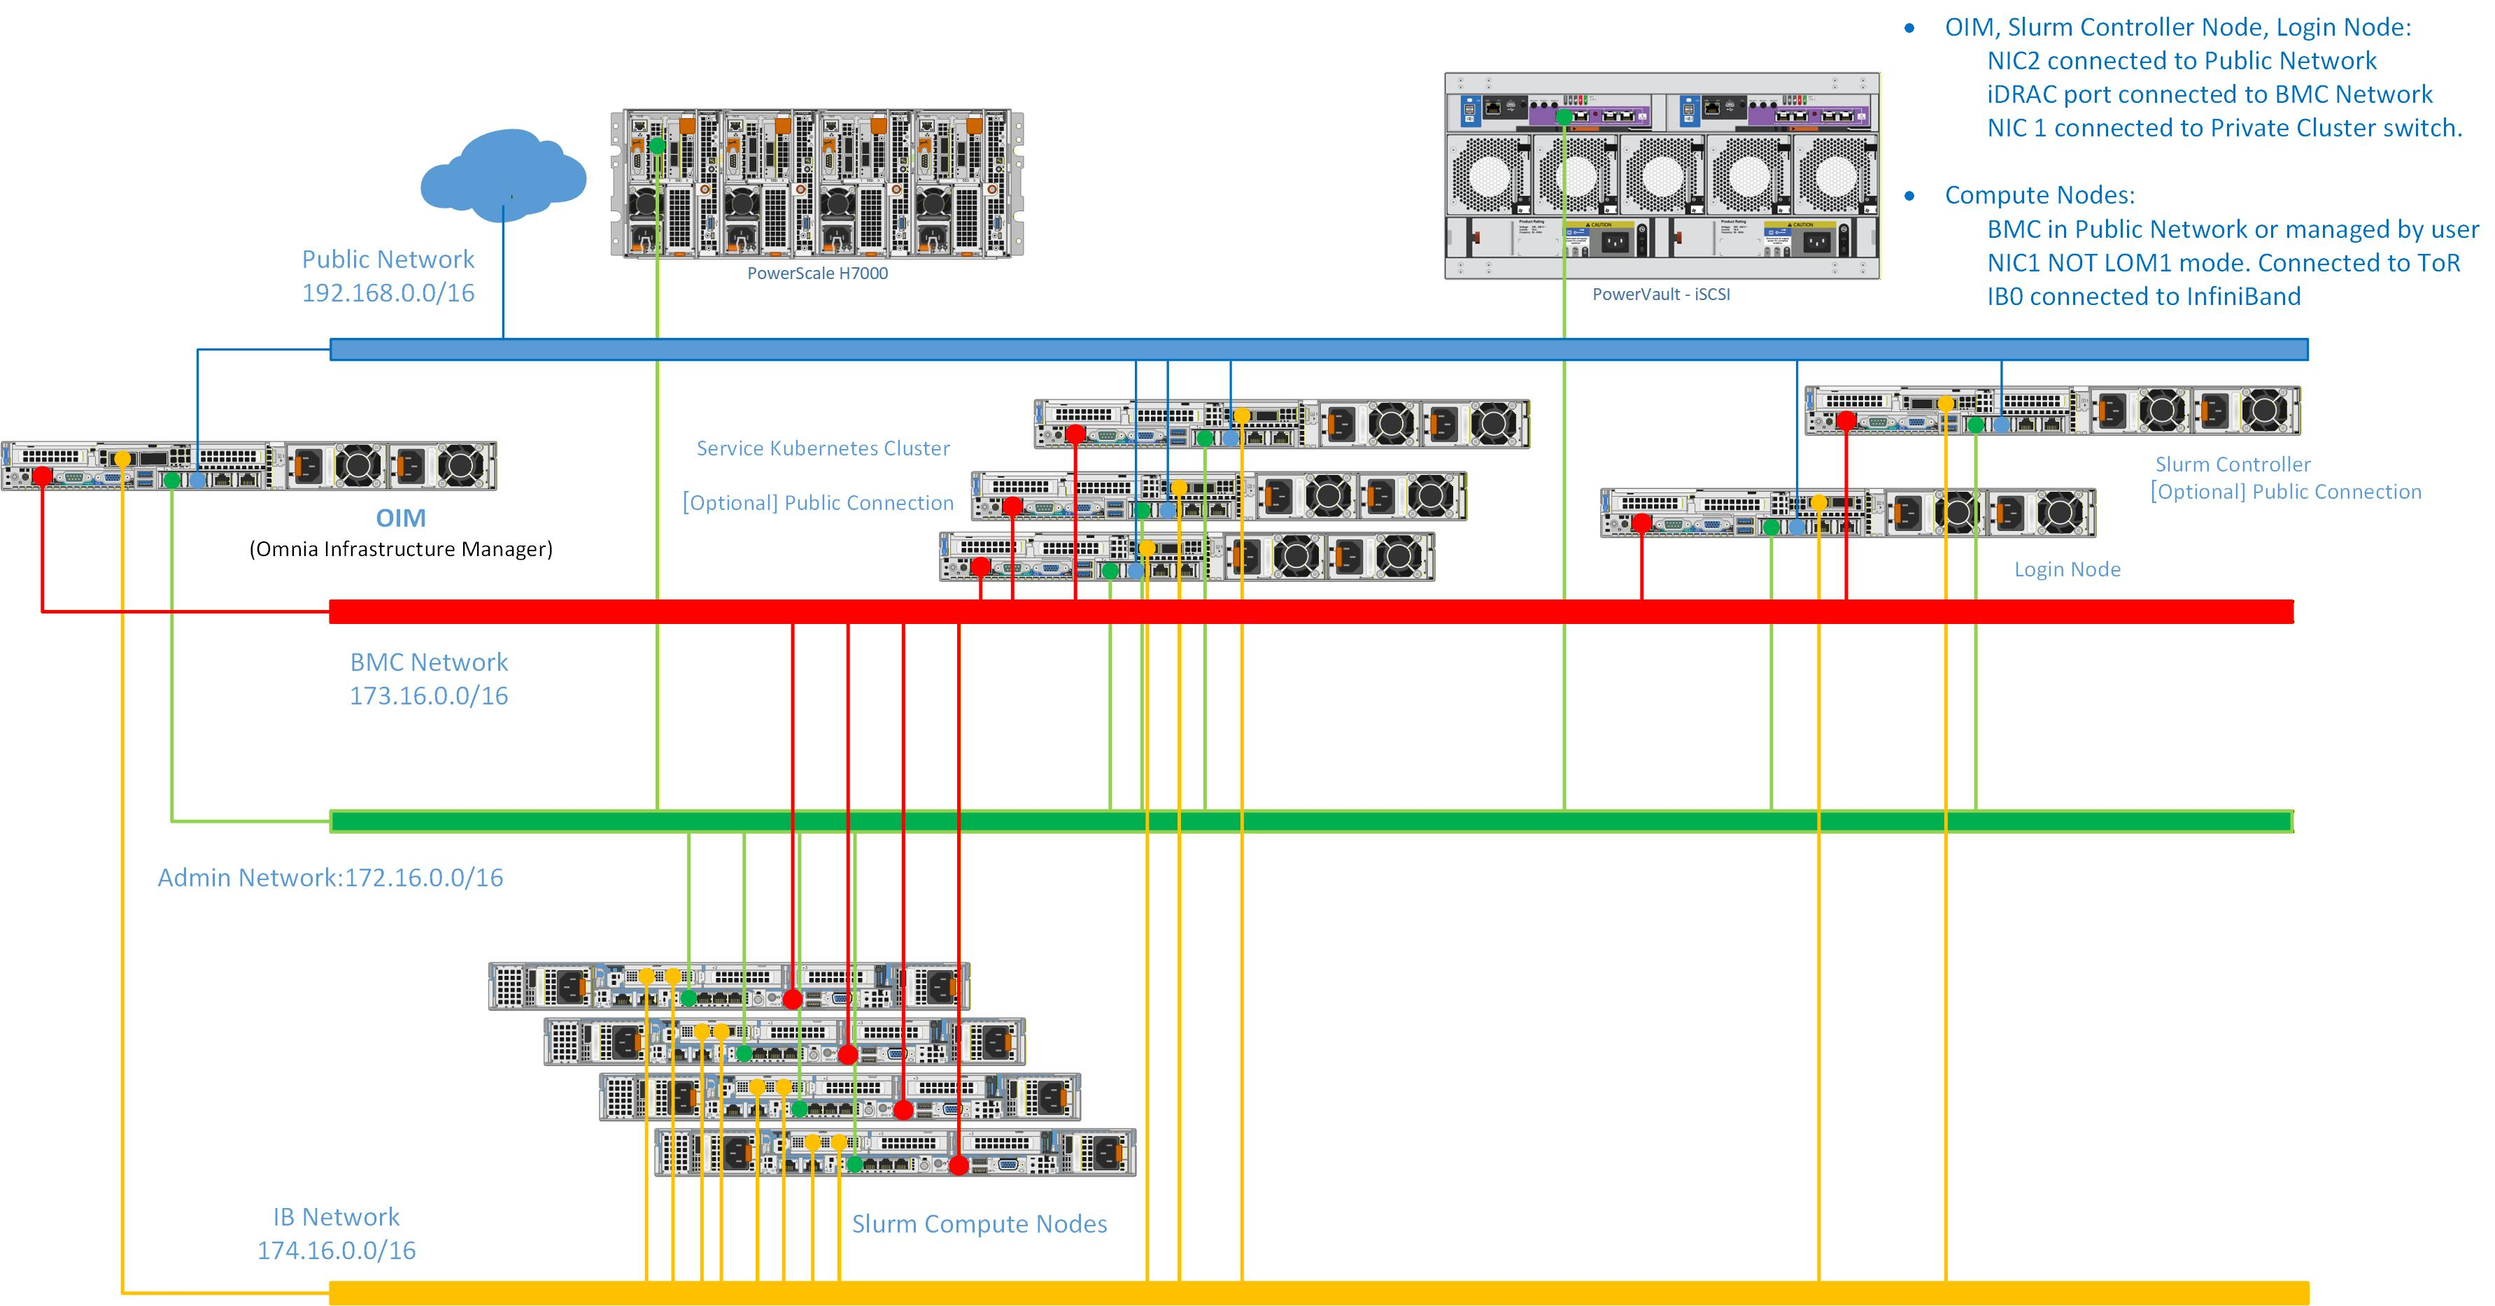
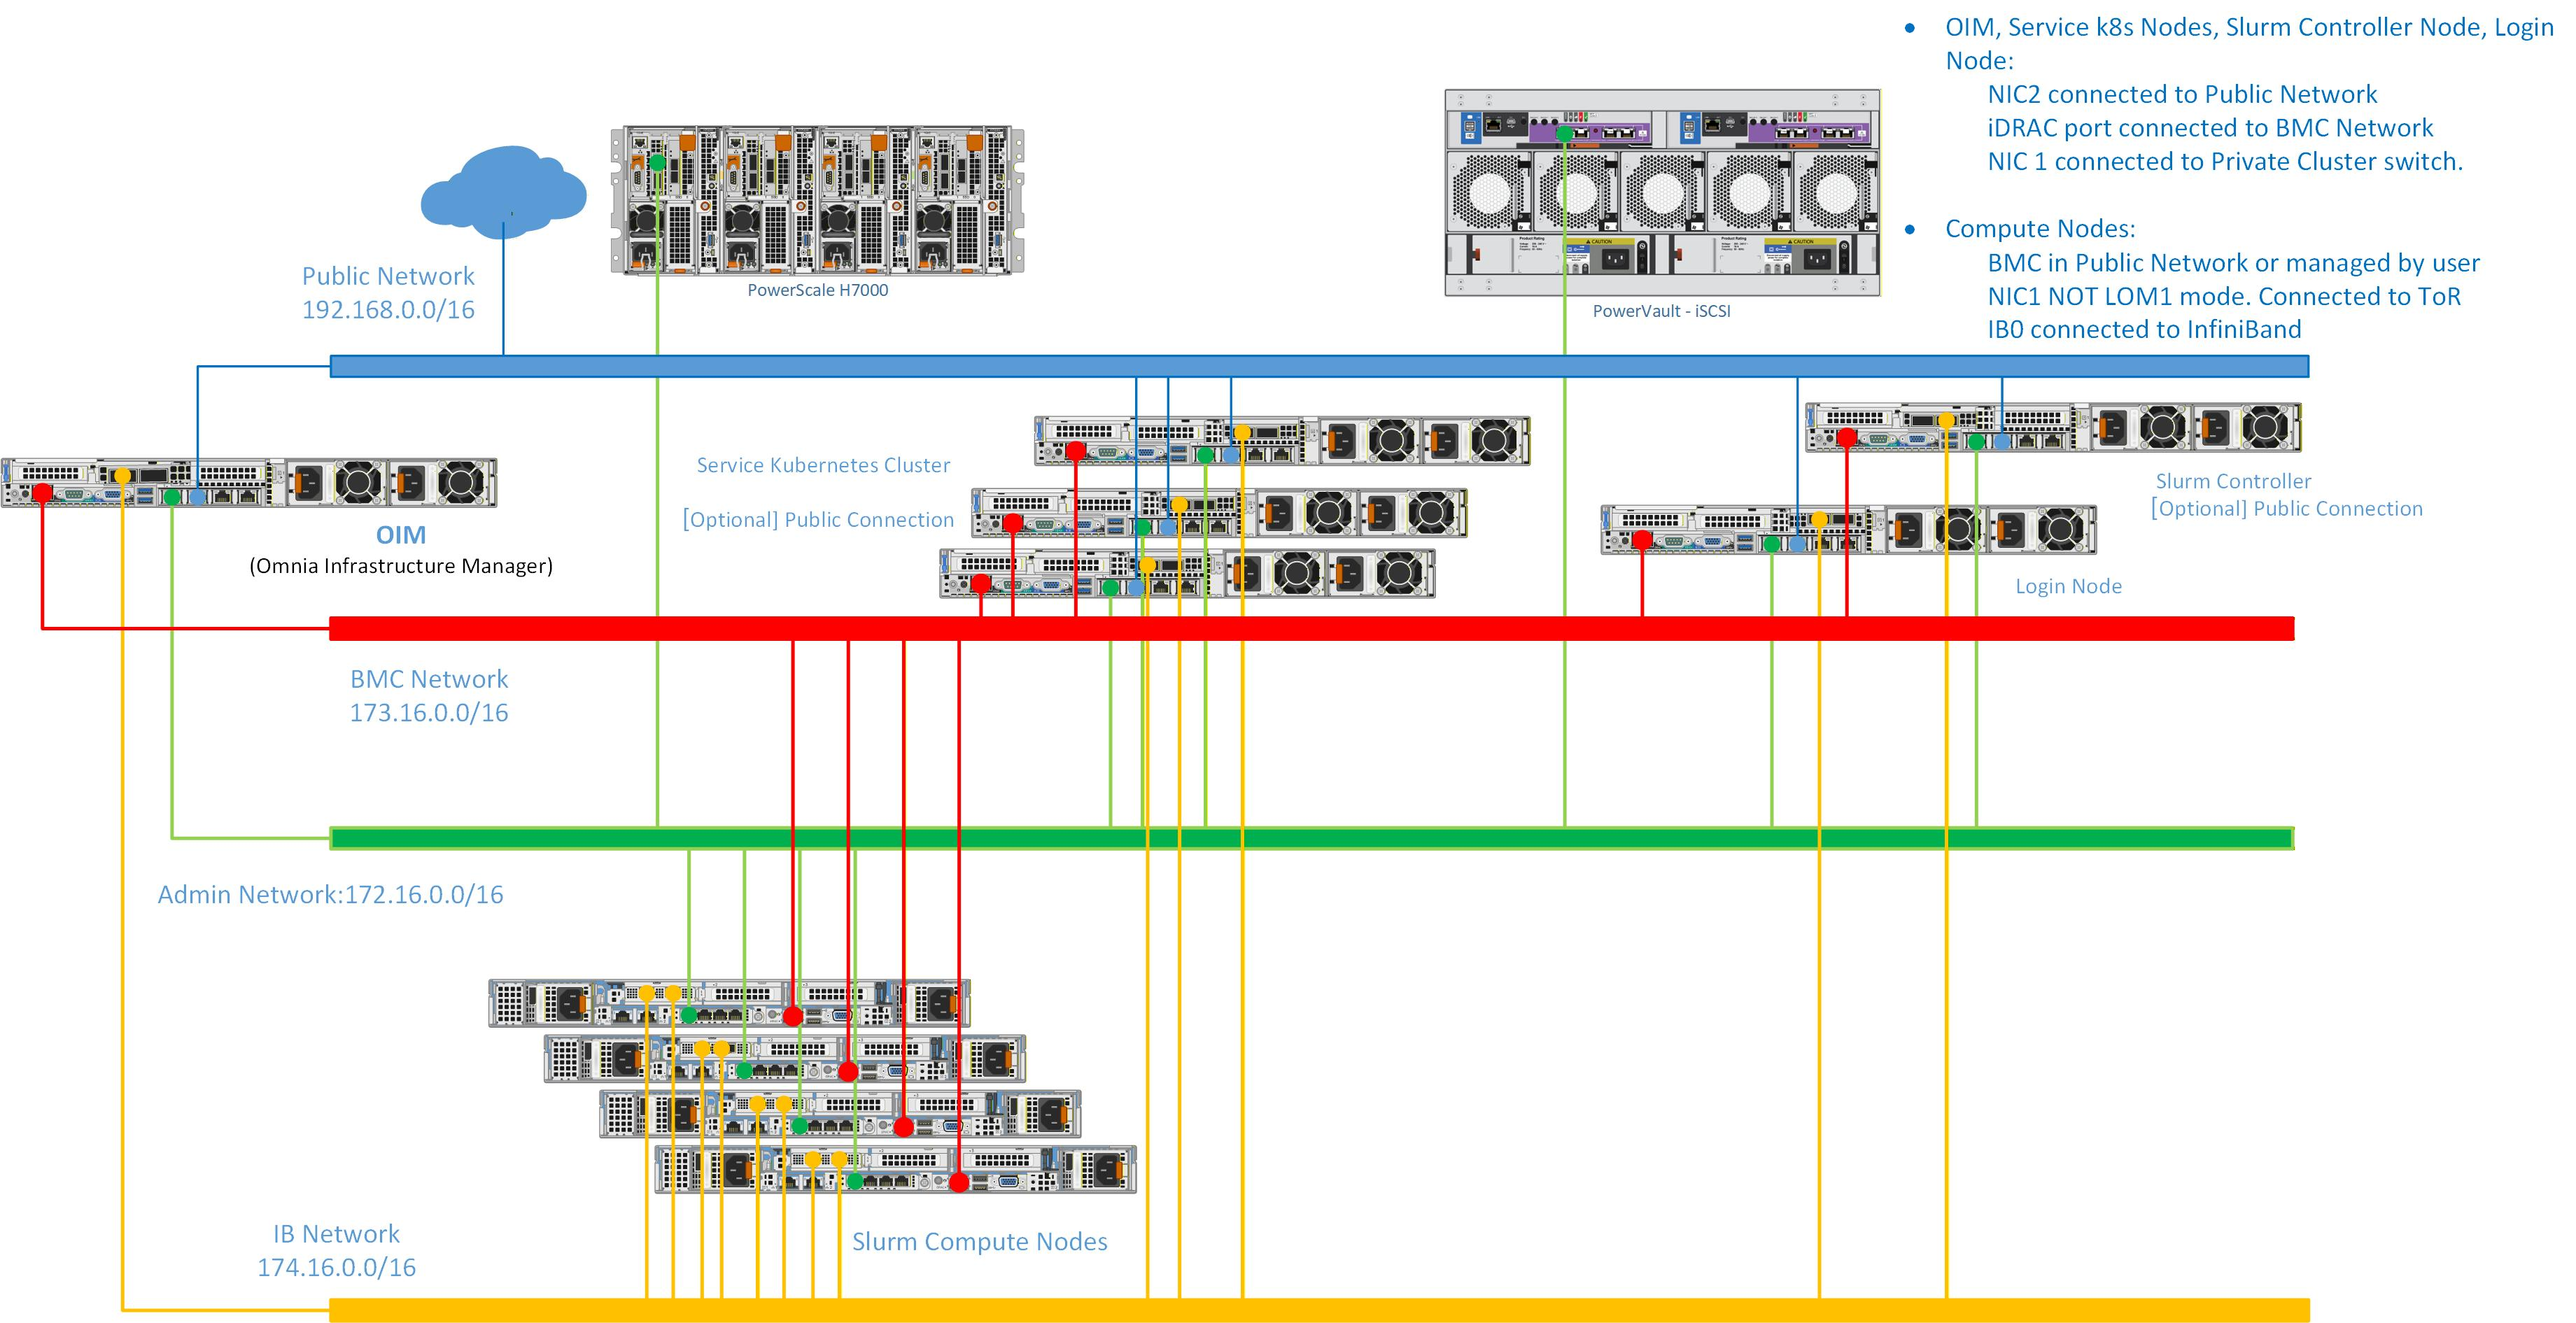
Updated the topology diagrams

Changed region(s): [[0.0, 0.0, 0.9961, 0.9941], [0.8716, 0.963, 0.9338, 1.0], [0.0934, 0.932, 0.1556, 1.0]]

diff --git a/docs/source/Troubleshooting/troubleshootingguide.rst b/docs/source/Troubleshooting/troubleshootingguide.rst
@@ -63,10 +63,10 @@ If unsure, start with a **local** shared path and switch to NFS later.
 8. After applying the fixes, re-run the ``omnia.sh`` script to deploy the Omnia core
 container.
 
-Troubleshooting failures during Prepare the OIM 
+Troubleshooting failures during prepare OIM 
 ================================================
 
-The deployment of the Omnia core container may fail for the following reasons:
+The prepare OIM playbook may fail for the following reasons:
 
 - Certificate or TLS failures
 - Expected container not created
